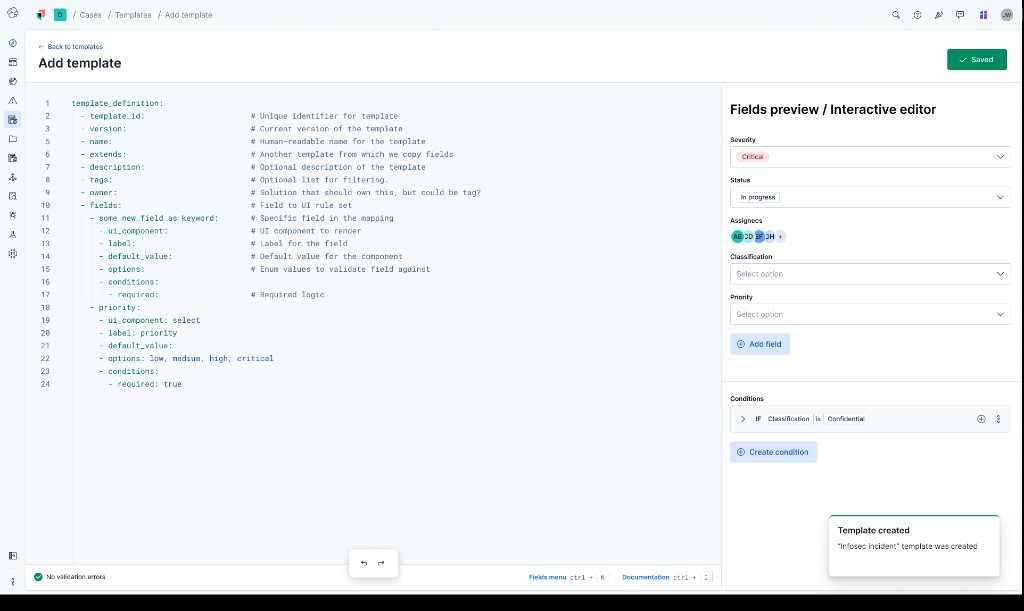
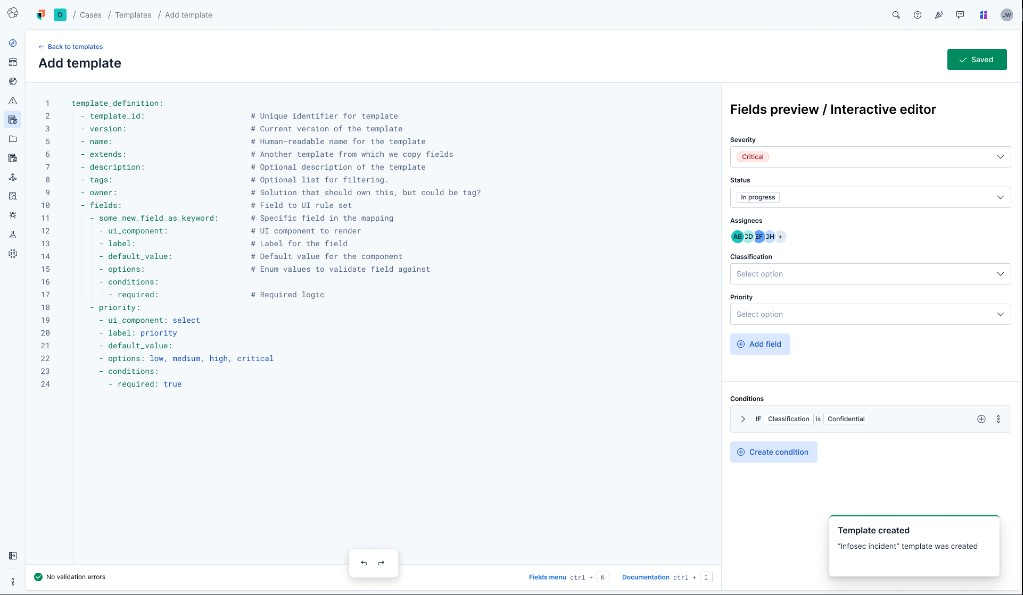
fix

diff --git a/index.html b/index.html
@@ -102,6 +102,11 @@
                 product turned trusted scoring into actionable close-or-escalate
                 decisions.
               </p>
+              <ul class="project-tags reveal reveal-text" aria-label="Project tags">
+                <li>Security</li>
+                <li>AI</li>
+                <li>Enterprise</li>
+              </ul>
             </div>
             <a
               class="project-card-stage-link"
@@ -119,11 +124,6 @@
                 </span>
               </div>
               <footer class="project-card-footer">
-                <ul class="project-tags" aria-label="Project tags">
-                  <li>Security</li>
-                  <li>AI</li>
-                  <li>Enterprise</li>
-                </ul>
                 <span class="challenge-link">View Challenge →</span>
               </footer>
             </a>
@@ -144,6 +144,10 @@
                 Scattered signals made incident response reactive. The goal was
                 connected context so teams could decide what mattered, faster.
               </p>
+              <ul class="project-tags reveal reveal-text" aria-label="Project tags">
+                <li>Observability</li>
+                <li>Enterprise</li>
+              </ul>
             </div>
             <a
               class="project-card-stage-link"
@@ -171,10 +175,6 @@
                 </span>
               </div>
               <footer class="project-card-footer">
-                <ul class="project-tags" aria-label="Project tags">
-                  <li>Observability</li>
-                  <li>Enterprise</li>
-                </ul>
                 <span class="challenge-link">View Challenge →</span>
               </footer>
             </a>
@@ -197,6 +197,12 @@
                 security analysis into confident decisions — released open source
                 so the community can keep protecting people from cyber scams.
               </p>
+              <ul class="project-tags reveal reveal-text" aria-label="Project tags">
+                <li>IBM</li>
+                <li>Security</li>
+                <li>AI</li>
+                <li>Consumer</li>
+              </ul>
             </div>
             <a
               class="project-card-stage-link"
@@ -224,12 +230,6 @@
                 </span>
               </div>
               <footer class="project-card-footer">
-                <ul class="project-tags" aria-label="Project tags">
-                  <li>IBM</li>
-                  <li>Security</li>
-                  <li>AI</li>
-                  <li>Consumer</li>
-                </ul>
                 <span class="challenge-link">View Challenge →</span>
               </footer>
             </a>
@@ -251,6 +251,10 @@
                 couldn't see quickly which services were healthy, at risk, or
                 breached.
               </p>
+              <ul class="project-tags reveal reveal-text" aria-label="Project tags">
+                <li>Observability</li>
+                <li>Enterprise</li>
+              </ul>
             </div>
             <a
               class="project-card-stage-link"
@@ -278,10 +282,6 @@
                 </span>
               </div>
               <footer class="project-card-footer">
-                <ul class="project-tags" aria-label="Project tags">
-                  <li>Observability</li>
-                  <li>Enterprise</li>
-                </ul>
                 <span class="challenge-link">View Challenge →</span>
               </footer>
             </a>
@@ -303,6 +303,12 @@
                 surface what mattered so buyers could compare and commit with
                 confidence.
               </p>
+              <ul class="project-tags reveal reveal-text" aria-label="Project tags">
+                <li>Allegro</li>
+                <li>Marketplace</li>
+                <li>Automotive</li>
+                <li>Consumer</li>
+              </ul>
             </div>
             <a
               class="project-card-stage-link"
@@ -330,12 +336,6 @@
                 </span>
               </div>
               <footer class="project-card-footer">
-                <ul class="project-tags" aria-label="Project tags">
-                  <li>Allegro</li>
-                  <li>Marketplace</li>
-                  <li>Automotive</li>
-                  <li>Consumer</li>
-                </ul>
                 <span class="challenge-link">View Challenge →</span>
               </footer>
             </a>

diff --git a/styles.css b/styles.css
@@ -590,10 +590,14 @@ p {
   margin: 0;
 }
 
+.project-card-copy .project-tags {
+  margin-top: 24px;
+}
+
 .project-card-stage-link {
   position: relative;
   display: block;
-  margin-top: 4px;
+  margin-top: 32px;
   text-decoration: none;
   color: inherit;
   cursor: pointer;
@@ -716,25 +720,13 @@ p {
   z-index: 2;
   display: flex;
   align-items: center;
-  justify-content: space-between;
+  justify-content: flex-end;
   gap: 24px;
   padding: 14px 18px;
   background: var(--card-footer-bg);
   backdrop-filter: blur(10px);
   -webkit-backdrop-filter: blur(10px);
   border-top: 1px solid var(--card-footer-border);
-}
-
-.project-card-footer .project-tags {
-  flex: 1;
-  min-width: 0;
-  margin: 0;
-  gap: 6px;
-}
-
-.project-card-footer .project-tags li {
-  padding: 4px 8px;
-  font-size: 0.625rem;
 }
 
 .project-card-stage-link:hover .challenge-link,
@@ -2324,13 +2316,15 @@ p {
 }
 
 .analyst-experience-media {
-  overflow: visible;
+  overflow: hidden;
+  background: #ffffff;
 }
 
 .analyst-experience-media img {
   display: block;
   width: 100%;
   height: auto;
+  background: #ffffff;
 }
 
 /* Key design decisions */